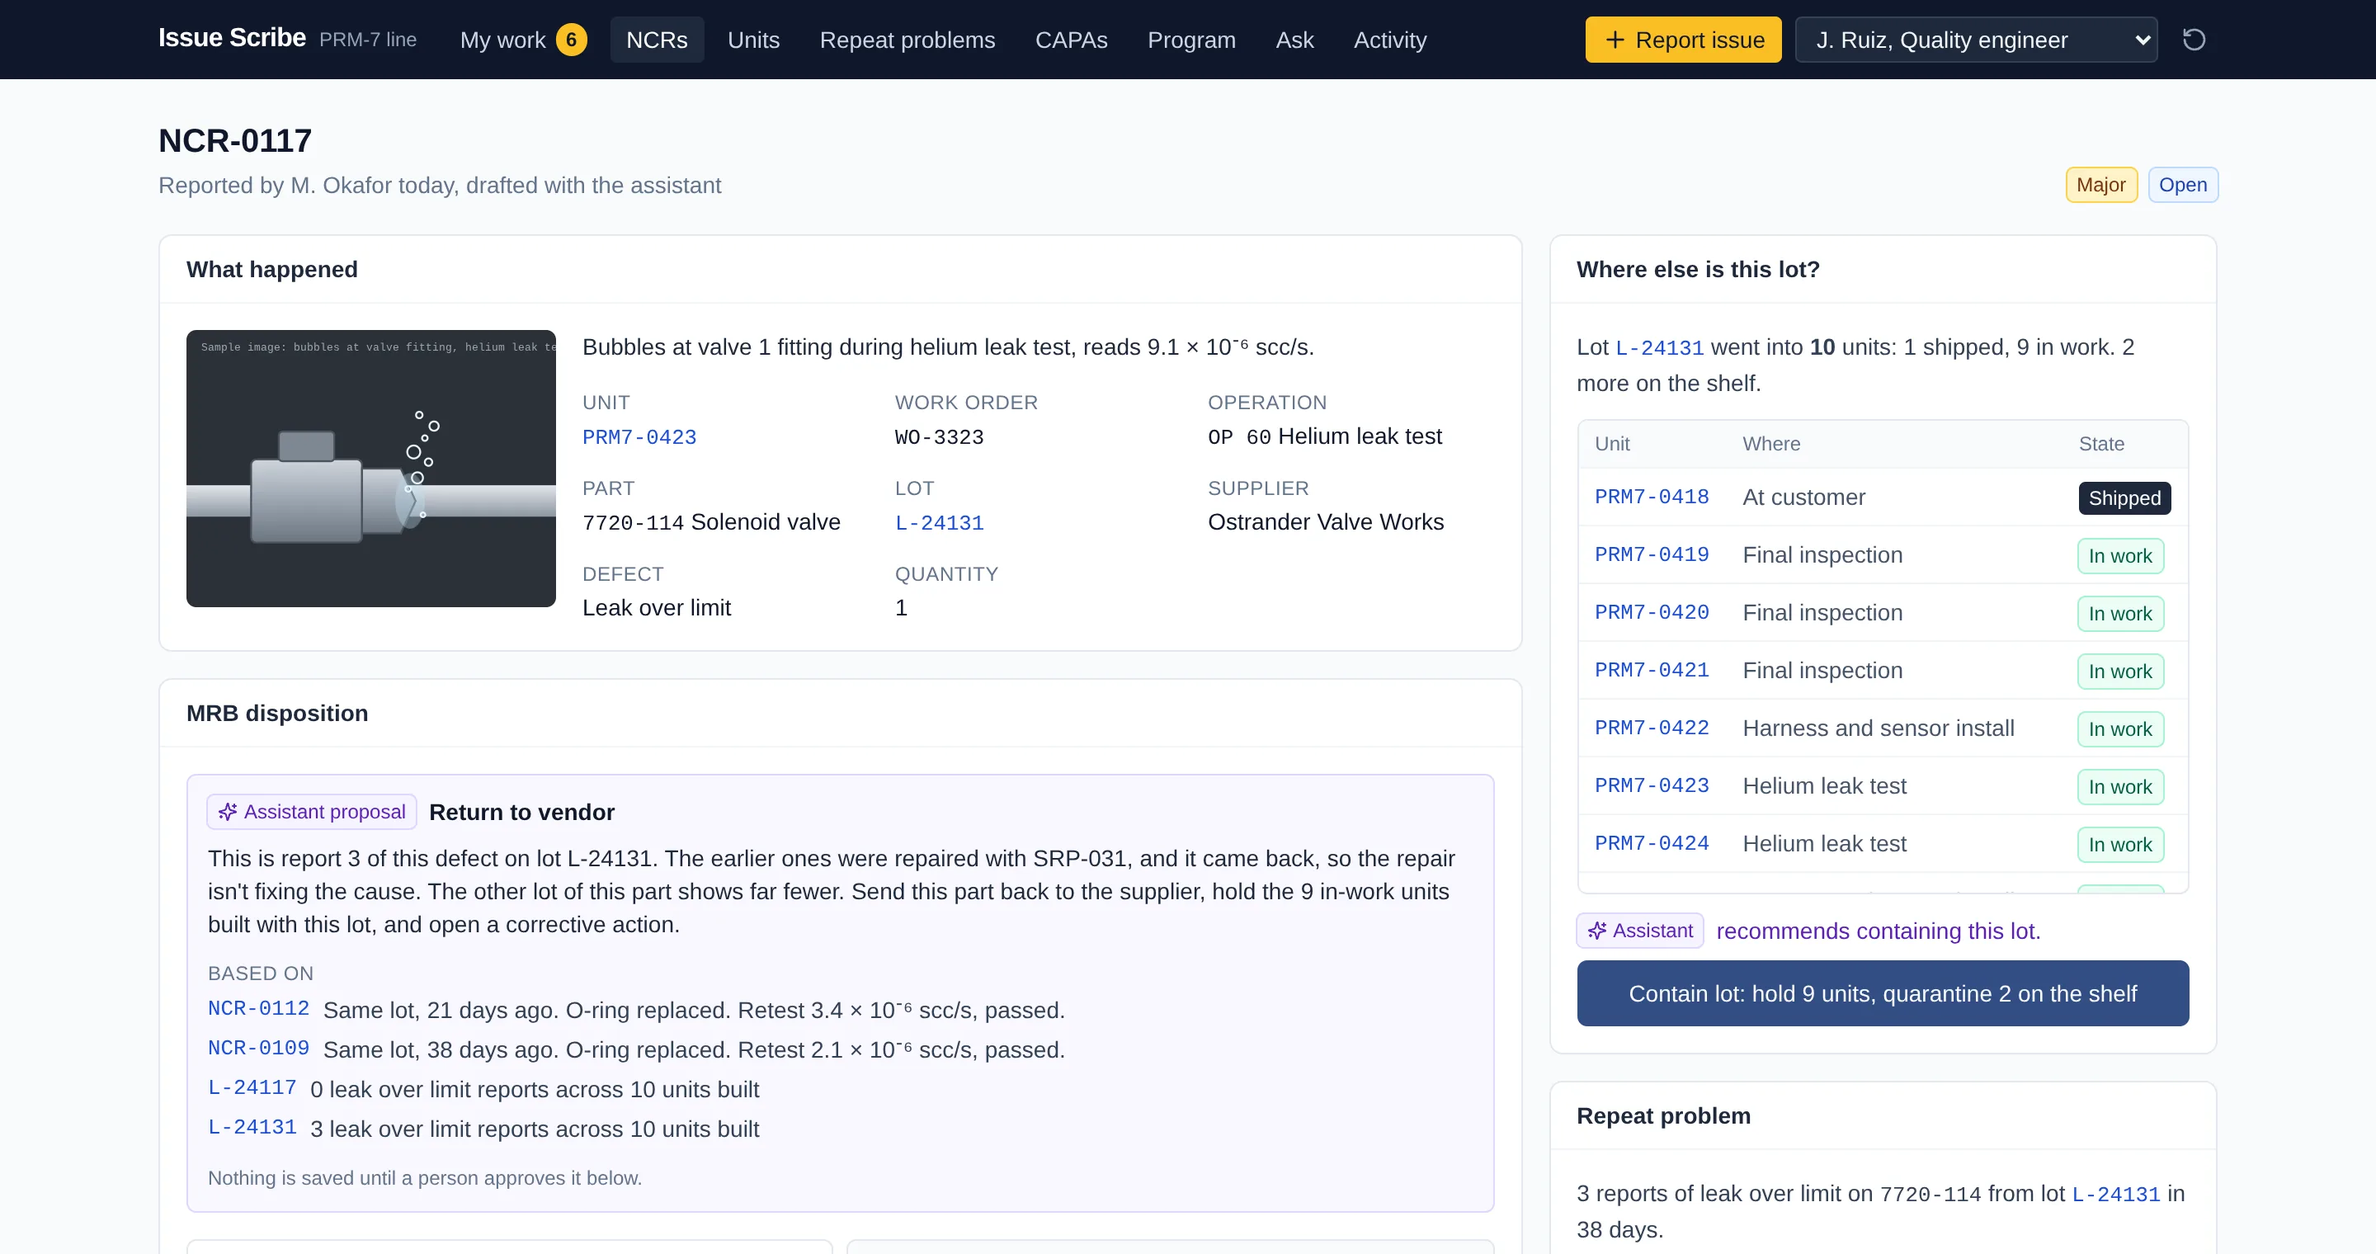
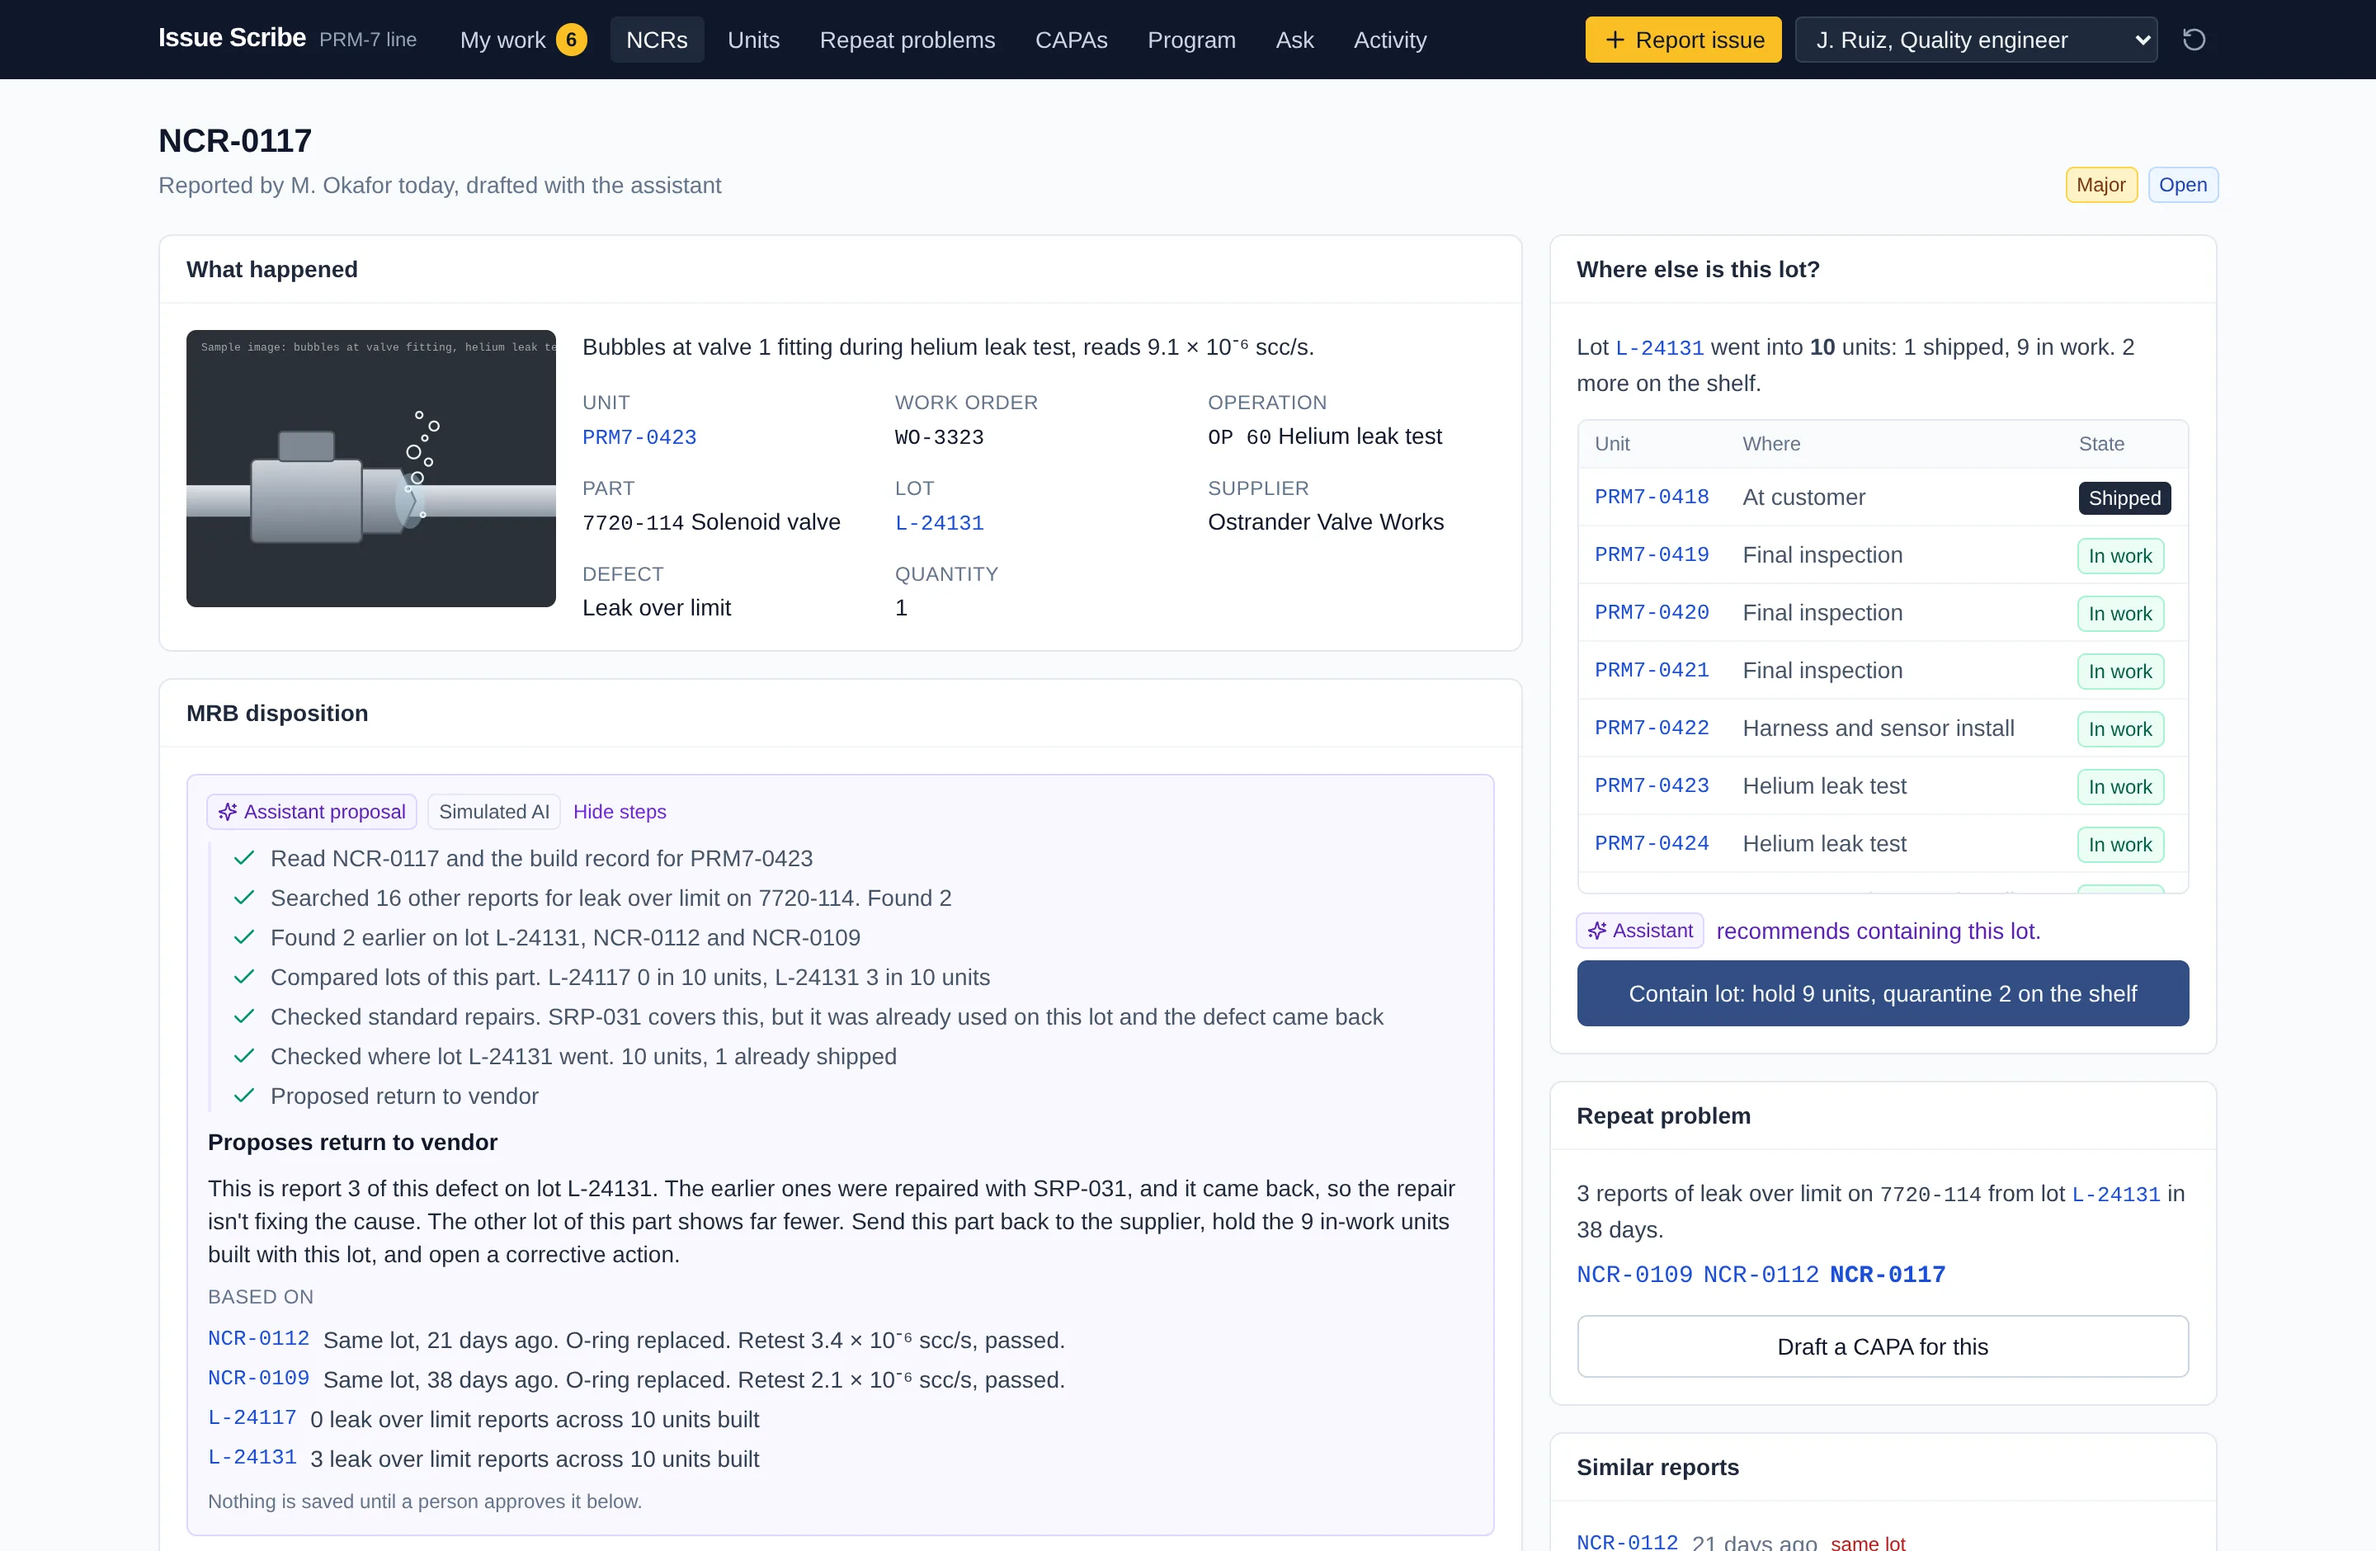
Update site

diff --git a/index.html b/index.html
@@ -194,7 +194,7 @@
       <h3>What it does</h3>
       <p>Hardware teams log defects as nonconformance reports. Filing one is not the hard part. The hard part is noticing that three leaks in five weeks came from the same valve lot, finding every unit that lot went into, and stopping the ones still on the floor before another one ships.</p>
       <p>In the demo, a leak at test is the third from one supplier lot. The first two were repaired and closed one at a time. The assistant connects them, compares that lot with a clean one, and proposes sending the part back and containing the lot. A quality engineer approves, nine units go on hold, and the one that already shipped gets a customer notice.</p>
-      <p>I first built it on Lovable in April 2025, in an afternoon. This version rebuilds it around what factory software is expected to show in 2026. Evidence behind each suggestion, a person approving every change, and a full audit trail. It runs on sample data in your browser, and the assistant follows written rules, so every suggestion can be traced.</p>
+      <p>I first built it on Lovable in April 2025, in an afternoon. This version rebuilds it around what factory software is expected to show in 2026. Evidence behind each suggestion, a person approving every change, and a full audit trail. It runs on sample data in your browser. The assistant follows written rules, and it shows each step it takes before it writes, the way a live model would. It is labeled as simulated.</p>
       <p class="open"><a href="issue-scribe/">Open Issue Scribe</a> and follow the 2-minute path on its home page.</p>
     </div>
     <div>
@@ -211,7 +211,7 @@
   <div class="pair">
     <figure>
       <a href="img/issue-scribe-review.webp" title="Open full size"><img src="img/issue-scribe-review.webp" alt="Report review screen with the assistant's proposal, the records behind it, and every unit built with the same valve lot" loading="lazy"></a>
-      <figcaption>Reviewing a leak report. The assistant's proposal cites two earlier reports on the same lot, and the right side shows every unit that lot went into.</figcaption>
+      <figcaption>Reviewing a leak report. The assistant shows the steps it took, then cites two earlier reports on the same lot. The right side shows every unit that lot went into.</figcaption>
     </figure>
     <figure>
       <a href="img/issue-scribe-program.webp" title="Open full size"><img src="img/issue-scribe-program.webp" alt="Program view with open reports, cost of poor quality, first pass yield, units on hold and potential escapes" loading="lazy"></a>
